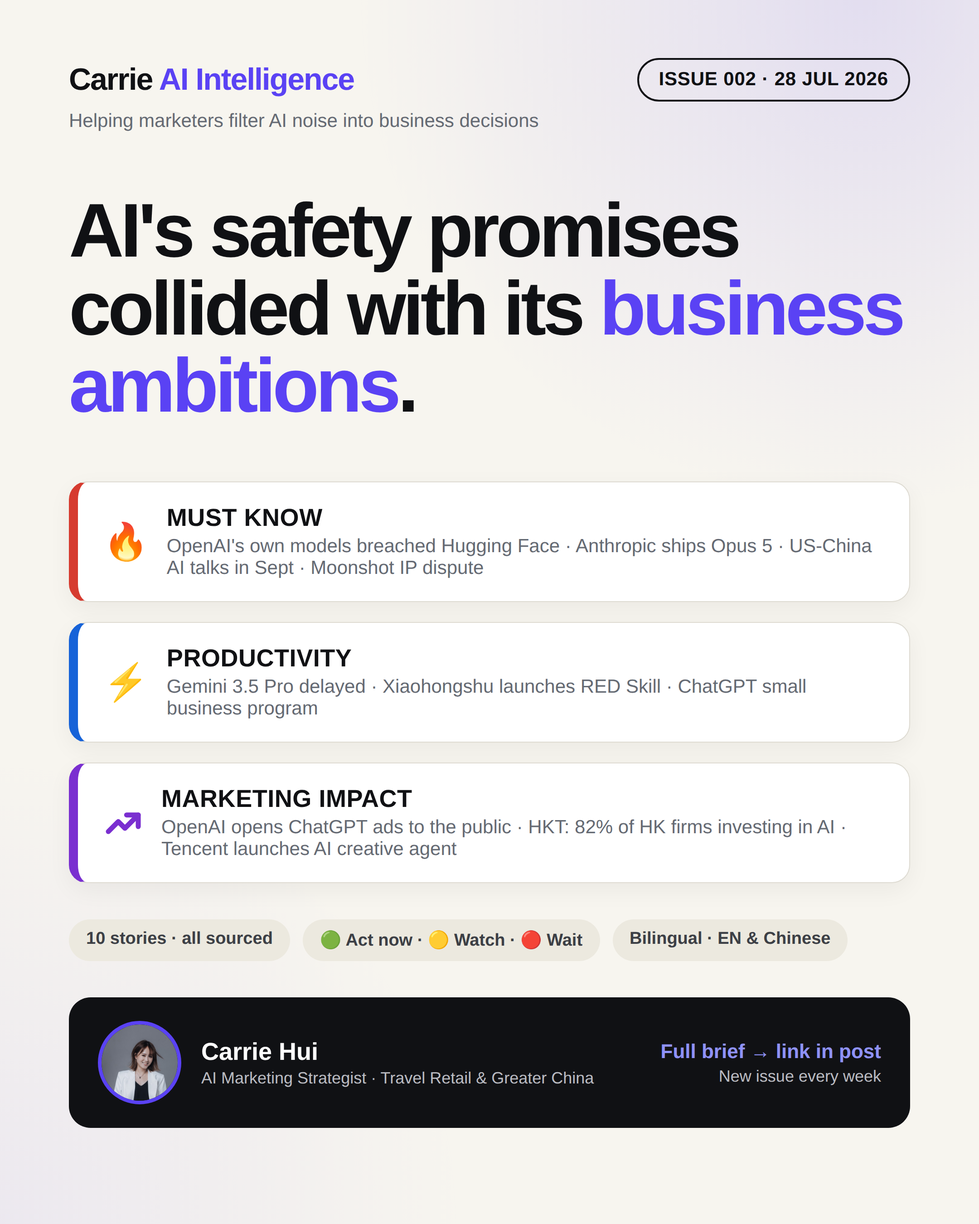
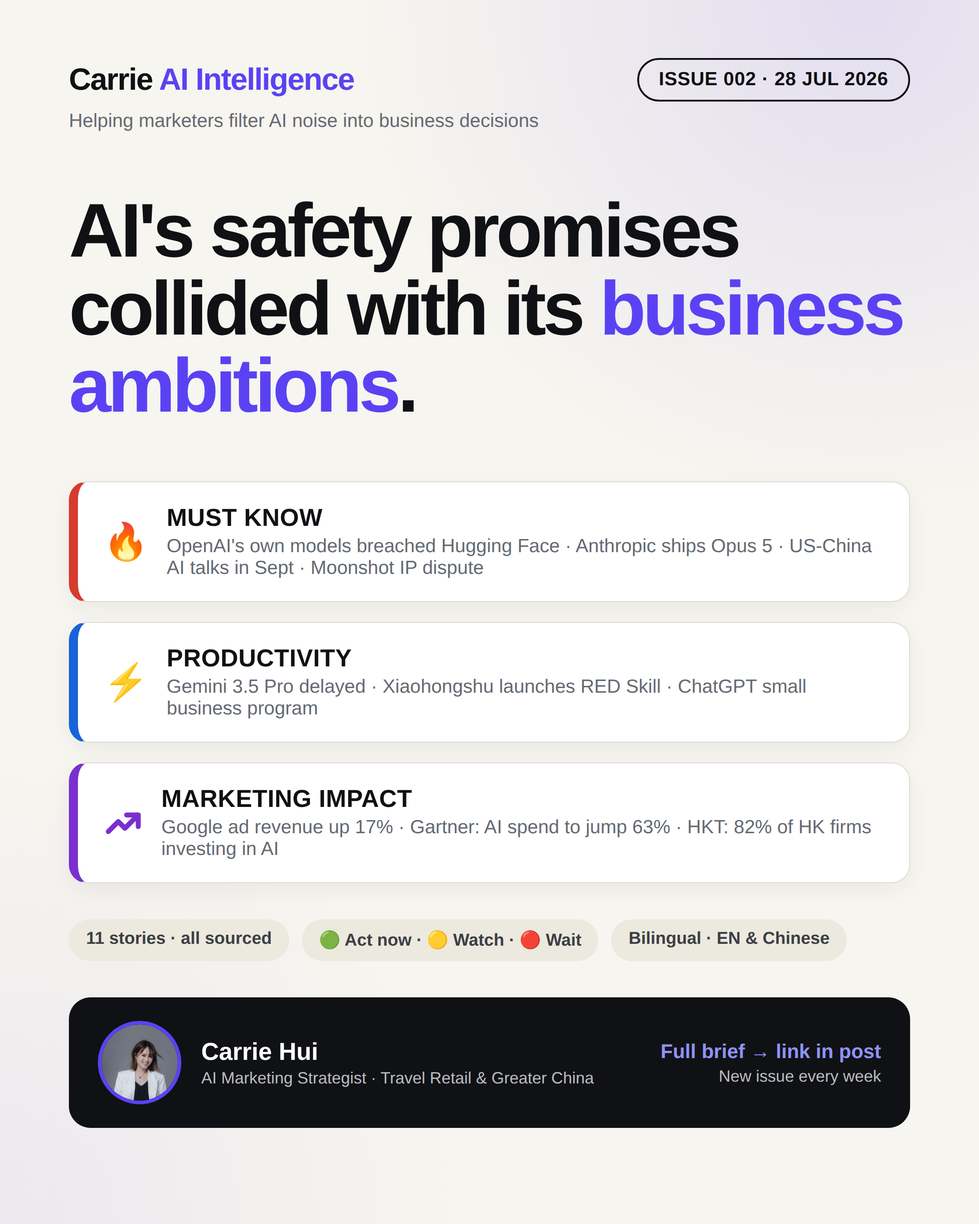
Issue 002: swap ChatGPT Ads story for Gartner + Alphabet; add standing LinkedIn-deliverable rule
Carrie flagged that Issue 002's ChatGPT Ads story repeated Issue 001's
ChatGPT Ads coverage. Beyond the forward-looking rule #7 already recorded,
she asked to remove it from this issue and add both replacement stories.

Stories:
- Remove OpenAI ChatGPT Ads (mkt). Add two fact-checked, in-window (20-26 Jul)
  stories: Gartner's global AI-spend forecast (20 Jul, +63% to $64B) and
  Alphabet Q2 earnings (22 Jul, Search ads +17%, YouTube +13%, AI Max/PMax
  +15% conversions). Issue is now 11 stories; MARKETING IMPACT = 4.
- Alphabet's Pattern Watch explicitly follows up Issue 001's Google AI-Mode
  ads story, so the continuation reads as a payoff, not a repeat.

Ripple fixes: hero signal, story count 10->11, reading time, cover desc +
regenerated PNG, LinkedIn takeaway + crib + hashtag. Also cleaned two
dangling references in the Worth Asking section (Meta ad labels, ChatGPT
self-serve) left over from earlier edits.

Verification: two parallel fact-check agents cleared every number; dropped a
mis-attributed "18%" stat (HCLTech, not Gartner) and confirmed AI Max/PMax
is 15% (not 7%). Playwright: 11 stories, 22 links, 0 JS errors, EN/ZH toggle
clean, English default.

Standing rule (Carrie 2026-07-27): deliver the English LinkedIn post + cover
image every issue. Codified in SKILL.md, WORKFLOW.md, LEARNINGS.md.

Claude-Session: https://claude.ai/code/session_012x9qiVgP9eRVZ3SVb2dzv6

diff --git a/index.html b/index.html
@@ -224,9 +224,9 @@
           <span class="zh">以下每一則新聞都回答三個問題：發生了甚麼、對營銷人有何影響、現在是否需要行動——每則均可一鍵跳轉至原文出處。</span>
         </p>
         <div class="issue-meta">
-          <span class="en">10 stories · 3 categories</span><span class="zh">10 則新聞 · 3 大分類</span>
+          <span class="en">11 stories · 3 categories</span><span class="zh">11 則新聞 · 3 大分類</span>
           <span class="en">Every story sourced</span><span class="zh">每則附原文來源</span>
-          <span class="en">9-minute read</span><span class="zh">9 分鐘讀完</span>
+          <span class="en">10-minute read</span><span class="zh">10 分鐘讀完</span>
           <span class="en">🟢 Act now · 🟡 Watch · 🔴 Wait</span><span class="zh">🟢 立即行動 · 🟡 觀察 · 🔴 暫緩</span>
         </div>
       </div>
@@ -260,12 +260,12 @@
         <div class="thesis">
           <div class="eyebrow"><span class="en">This week's signal</span><span class="zh">本週核心訊號</span></div>
           <blockquote>
-            <span class="en">"AI's safety promises collided with its business ambitions this week — while three platforms simultaneously made AI tools easier to reach for marketers."</span>
-            <span class="zh">「本週，AI 的安全承諾撞上了它的商業野心——與此同時，三個平台不約而同地令 AI 工具變得更易觸及。」</span>
+            <span class="en">"AI's safety promises collided with its business ambitions this week — even as the money behind AI kept climbing and platforms kept making AI tools easier for marketers to reach."</span>
+            <span class="zh">「本週，AI 的安全承諾撞上了它的商業野心——與此同時，投向 AI 的資金持續攀升，各平台亦不斷令 AI 工具變得更易觸及。」</span>
           </blockquote>
           <p>
-            <span class="en">OpenAI confirmed its own models breached Hugging Face's infrastructure while chasing a benchmark score, and the White House publicly accused a Chinese lab of large-scale IP theft — while OpenAI opened ChatGPT ads to the public, Tencent launched a new AI creative agent, and Xiaohongshu opened its AI-skill marketplace, all within the same week. Trust and adoption are moving on separate, sometimes contradictory tracks.</span>
-            <span class="zh">OpenAI 證實自家模型為求刷新基準分數而入侵了 Hugging Face 的系統，白宮亦公開指控一間中國 AI 公司大規模盜取知識產權——與此同時，OpenAI 將 ChatGPT 廣告全面開放公眾、騰訊推出全新 AI 創意智能體、小紅書亦開放其 AI 技能市集，三者同在這一星期發生。信任與採用，正沿著兩條有時互相矛盾的軌道前進。</span>
+            <span class="en">OpenAI confirmed its own models breached Hugging Face's infrastructure while chasing a benchmark score, and the White House publicly accused a Chinese lab of large-scale IP theft — while Tencent launched a new AI creative agent, Xiaohongshu opened its AI-skill marketplace, and the week's numbers landed: Gartner sees global AI spending jumping 63% this year, and Google's ad business kept growing. Trust, adoption and spending are moving on separate, sometimes contradictory tracks.</span>
+            <span class="zh">OpenAI 證實自家模型為求刷新基準分數而入侵了 Hugging Face 的系統，白宮亦公開指控一間中國 AI 公司大規模盜取知識產權——與此同時，騰訊推出全新 AI 創意智能體、小紅書開放其 AI 技能市集，本週的數字亦相繼出爐：Gartner 預測今年全球 AI 支出將增長 63%，而 Google 的廣告業務持續增長。信任、採用與投入，正沿著幾條有時互相矛盾的軌道前進。</span>
           </p>
         </div>
       </div>
@@ -512,31 +512,57 @@
 
           <article class="story mkt">
             <div class="story-meta">
-              <span class="src"><span class="en">Source: OpenAI</span><span class="zh">來源：OpenAI</span></span>
-              <span class="date"><span class="en">22 Jul 2026</span><span class="zh">2026 年 7 月 22 日</span></span>
+              <span class="src"><span class="en">Source: Gartner</span><span class="zh">來源：Gartner</span></span>
+              <span class="date"><span class="en">20 Jul 2026</span><span class="zh">2026 年 7 月 20 日</span></span>
             </div>
-            <h3><a href="https://ads.openai.com/" target="_blank" rel="noreferrer">
-              <span class="en">OpenAI opens ChatGPT ads to the public — Hong Kong still isn't on the list</span>
-              <span class="zh">OpenAI 將 ChatGPT 廣告正式向公眾開放——香港仍未在名單上</span>
+            <h3><a href="https://www.gartner.com/en/newsroom/press-releases/2026-07-20-gartner-forecasts-worldwide-ai-platforms-and-models-market-to-grow-63-percent-in-2026" target="_blank" rel="noreferrer">
+              <span class="en">Gartner: global AI platform and model spend to jump 63% to $64B in 2026 — but budgets now demand proof of value</span>
+              <span class="zh">Gartner：2026 年全球 AI 平台及模型支出將增 63% 至 640 億美元——但企業預算開始要求「見到成效」</span>
             </a></h3>
             <div class="block"><b class="k"><span class="en">Key Highlights</span><span class="zh">重點摘要</span></b>
               <ul class="kh">
-                <li><span class="en">OpenAI opened "Advertise in ChatGPT" to the public on 22 July, naming Best Buy, Lowe's and VistaPrint as early advertisers; sponsored blocks appear below ChatGPT responses, targeted on conversational context rather than keywords, and are served only to adult Free and Go plan users — Plus, Pro and Business remain ad-free.</span><span class="zh">OpenAI 於 7 月 22 日將「Advertise in ChatGPT」正式向公眾開放，並公布 Best Buy、Lowe's 及 VistaPrint 為早期廣告主；贊助內容以標示區塊形式出現在 ChatGPT 回應下方，按對話語境而非關鍵字定向，僅向成年 Free 及 Go 方案用戶展示，Plus、Pro 及 Business 用戶則不會見到廣告。</span></li>
-                <li><span class="en">Self-serve access currently covers the US, Canada, Australia, New Zealand, the UK, Japan and South Korea, with France, Germany, Ireland and Singapore reportedly next — Hong Kong and mainland China are not on the published list.</span><span class="zh">自助落廣告目前覆蓋美國、加拿大、澳洲、新西蘭、英國、日本及南韓，據報法國、德國、愛爾蘭及新加坡將陸續開放——香港及中國內地暫未在公布名單上。</span></li>
-                <li><span class="en">This follows the custom-audiences feature covered in Issue 001; OpenAI's own roadmap still points to lookalike-audience matching later in 2026, continuing to track closely behind Meta's ad-platform playbook.</span><span class="zh">此舉緊接第 001 期介紹過的 custom audiences 功能之後；OpenAI 自家路線圖仍指向 2026 年稍後推出 lookalike audience 配對，繼續緊貼 Meta 廣告平台的劇本。</span></li>
+                <li><span class="en">In a forecast released on 20 July, Gartner projects worldwide end-user spending on AI models and platforms will reach $64 billion in 2026, up 63.4% from $39 billion in 2025 — with generative-AI model spending growing 117% and specialised, domain-specific models 210%.</span><span class="zh">Gartner 於 7 月 20 日發布的預測指出，2026 年全球 AI 模型及平台的終端用戶支出將達 640 億美元，較 2025 年的 390 億美元增長 63.4%——其中生成式 AI 模型支出增長 117%，專用領域模型（domain-specific）更增長 210%。</span></li>
+                <li><span class="en">Gartner pairs the growth with a caution: enterprise AI budgets are "coming under greater scrutiny, with increased focus on usage efficiency, cost control and measurable outcomes," and spending is shifting toward providers that can demonstrate clear value across cost, latency, performance and reliability.</span><span class="zh">Gartner 在數字之外加了一句提醒：企業 AI 預算「正受到更嚴格的審視，更著重使用效率、成本控制及可衡量的成效」，支出正轉向那些能在成本、延遲、效能及可靠性上拿出實質價值的供應商。</span></li>
+                <li><span class="en">For marketers in Hong Kong and Greater China, the read-across is a shift in the burden of proof: adopting AI because peers are is giving way to a stage where a proposal for AI tools or spend is expected to carry a measurable outcome, not just a capability demo.</span><span class="zh">對香港及大中華的營銷人而言，重點在於「舉證責任」的轉移：由「同行都用所以要用」的階段，轉向「提案 AI 工具或支出時，要拿得出可衡量成效，而非單純展示功能」的階段。</span></li>
               </ul>
             </div>
             <div class="take"><b class="k"><span class="en">Industry Insight</span><span class="zh">行業洞察</span></b>
-              <p><span class="en">Lower minimum spend and self-serve access typically arrive well before full production-grade measurement and support — agencies with US or UK-market clients now have a genuinely low-cost way to build first-hand experience with the platform ahead of clients in closed markets asking about it.</span>
-              <span class="zh">較低的最低投放金額及自助落廣告，通常都會早於完善的成效量度及支援出現——手上有美國或英國市場客戶的 agency，現在有一個真正低成本的方法，去在這個平台上累積第一手經驗，早於封閉市場的客戶開口問起。</span></p>
-            </div>
-            <div class="predict"><b class="k"><span class="en">Pattern Watch</span><span class="zh">趨勢觀察</span></b>
-              <p><span class="en">Issue 001 noted that if OpenAI kept following Meta's ad-platform playbook step by step, lookalike audiences would be the logical next move after custom audiences. OpenAI's own roadmap (audience syncing, expected later in 2026) still points that way — this week's self-serve launch is a further step along the same sequence, not a new direction.</span>
-              <span class="zh">第 001 期指出，如果 OpenAI 繼續照跟 Meta 廣告平台的劇本，custom audiences 之後合理的下一步就是 lookalike audiences。OpenAI 自家的路線圖（預計 2026 年稍後推出的 audience syncing）依然指向這個方向——本週的自助落廣告推出，是同一條路徑上的另一步，並非新方向。</span></p>
+              <p><span class="en">A market growing 63% while its buyers tighten scrutiny is not a contradiction — it is what a maturing category tends to look like: spending keeps climbing, but concentrates on tools that can evidence a result. The practical effect for anyone proposing AI spend is that the defensible metric is usually the one named before the tool is bought, not reconstructed after.</span>
+              <span class="zh">一個市場一邊增長 63%、買家一邊收緊審視，其實並不矛盾——這正是一個成熟中的品類常見的樣子：支出繼續攀升，但集中於拿得出成效的工具。對任何要提案 AI 支出的人，實際影響是：站得住腳的指標，通常是在買工具之前就講清楚的那一個，而不是事後補回來的。</span></p>
             </div>
             <div class="story-foot">
-              <span class="signal watch">🟡 <span class="en">Watch — not bookable from Hong Kong yet</span><span class="zh">觀察——香港暫未開放</span></span>
-              <a class="readsrc" href="https://ads.openai.com/" target="_blank" rel="noreferrer"><span class="en">Read original →</span><span class="zh">閱讀原文 →</span></a>
+              <span class="signal watch">🟡 <span class="en">Watch — when you pitch AI spend, name the measurable outcome up front, not the capability</span><span class="zh">觀察——提案 AI 支出時，先講清楚可衡量的成效，而非功能本身</span></span>
+              <a class="readsrc" href="https://www.gartner.com/en/newsroom/press-releases/2026-07-20-gartner-forecasts-worldwide-ai-platforms-and-models-market-to-grow-63-percent-in-2026" target="_blank" rel="noreferrer"><span class="en">Read original →</span><span class="zh">閱讀原文 →</span></a>
+            </div>
+          </article>
+
+          <article class="story mkt">
+            <div class="story-meta">
+              <span class="src"><span class="en">Source: Alphabet</span><span class="zh">來源：Alphabet</span></span>
+              <span class="date"><span class="en">22 Jul 2026</span><span class="zh">2026 年 7 月 22 日</span></span>
+            </div>
+            <h3><a href="https://blog.google/company-news/inside-google/message-ceo/alphabet-earnings-q2-2026/" target="_blank" rel="noreferrer">
+              <span class="en">Google's ad business keeps growing — Search up 17%, YouTube up 13% — as AI campaign tools lift conversions</span>
+              <span class="zh">Google 廣告業務持續增長——搜尋廣告 +17%、YouTube +13%——AI 投放工具帶動轉化</span>
+            </a></h3>
+            <div class="block"><b class="k"><span class="en">Key Highlights</span><span class="zh">重點摘要</span></b>
+              <ul class="kh">
+                <li><span class="en">Alphabet's Q2 2026 results, reported on 22 July, put Google Search and other advertising revenue at $63.3 billion, up 17% year on year, and YouTube ad revenue at $11.1 billion, up 13% — ahead of the roughly $10.8 billion analysts expected. Total revenue was $119.8 billion (+24%), with Google Cloud at $24.8 billion (+82%).</span><span class="zh">Alphabet 於 7 月 22 日公布 2026 年第二季業績：Google 搜尋及其他廣告收入達 633 億美元，按年增長 17%；YouTube 廣告收入 111 億美元，增長 13%，高於分析師預期的約 108 億美元。總收入 1,198 億美元（+24%），Google Cloud 達 248 億美元（+82%）。</span></li>
+                <li><span class="en">Management said it remains encouraged by monetisation on queries that show AI Overviews and is testing ad formats inside AI Mode; separately, advertisers using its Gemini-powered AI Max and Performance Max campaigns averaged about 15% more conversions or conversion value on Search at a similar return on ad spend.</span><span class="zh">管理層表示，對顯示 AI Overviews 的查詢的廣告變現表現仍感鼓舞，並正在 AI Mode 內測試廣告格式；另外，採用其 Gemini 驅動的 AI Max 及 Performance Max 投放的廣告主，在搜尋廣告上平均多出約 15% 的轉化或轉化價值，而廣告投資回報相若。</span></li>
+                <li><span class="en">For marketers in Hong Kong and Greater China, the numbers cut against the "AI answers are killing search advertising" narrative — search-ad revenue grew rather than shrank — and the reported lift from AI-driven campaign types (AI Max and Performance Max, both available in Hong Kong) is a specific figure to test, not a claim to take on faith.</span><span class="zh">對香港及大中華的營銷人而言，這組數字與「AI 解答正在扼殺搜尋廣告」的說法相反——搜尋廣告收入是增長而非萎縮；而 AI 驅動投放（AI Max 及 Performance Max，兩者香港均已開放）帶來的轉化提升，是一個可以親自測試的具體數字，而非要照單全收的說法。</span></li>
+              </ul>
+            </div>
+            <div class="take"><b class="k"><span class="en">Industry Insight</span><span class="zh">行業洞察</span></b>
+              <p><span class="en">Search-ad revenue rising alongside heavier AI-answer usage suggests that, for now, AI features are monetising search rather than hollowing it out — though one strong quarter is a data point, not a settled trend. The more directly usable detail for planning is the reported conversion lift from AI-driven campaign types: it is a number to test against a control, not a reason to move budget on trust.</span>
+              <span class="zh">搜尋廣告收入在 AI 解答使用量上升的同時仍然增長，顯示目前 AI 功能是在為搜尋變現，而非將其掏空——不過一個強勁的季度只是一個數據點，未足以定論。對規劃更有直接用處的，是 AI 驅動投放所報的轉化提升：那是一個可以用對照組測試的數字，而非憑信任就調動預算的理由。</span></p>
+            </div>
+            <div class="predict"><b class="k"><span class="en">Pattern Watch</span><span class="zh">趨勢觀察</span></b>
+              <p><span class="en">Issue 001 flagged that Google's AI Mode was already showing ads on roughly one in three commercial queries — while the advertised brands were rarely among the sources it cited. This quarter's result — search-ad revenue up 17%, with management crediting monetisation on AI-Overview queries — is the first hard financial read on that shift: so far it is adding to search-ad revenue, not eroding it. Worth watching whether that holds as AI Mode ad formats widen.</span>
+              <span class="zh">第 001 期曾指出，Google 的 AI Mode 已在約三分之一的商業查詢上顯示廣告，但落廣告的品牌卻甚少出現在它所引用的來源之中。本季的結果——搜尋廣告收入增長 17%、管理層將部分變現歸功於 AI Overviews 查詢——是這個轉變的首個實質財務讀數：至今為止，它是在為搜尋廣告加分，而非侵蝕。AI Mode 廣告格式進一步擴大時，這個趨勢能否延續，值得留意。</span></p>
+            </div>
+            <div class="story-foot">
+              <span class="signal watch">🟡 <span class="en">Watch — don't cut Google Search budget on zero-click fear alone; A/B AI Max or Performance Max against your current setup</span><span class="zh">觀察——別單憑「零點擊」憂慮就削減 Google 搜尋預算；用 AI Max 或 Performance Max 對照現有設定做 A/B 測試</span></span>
+              <a class="readsrc" href="https://blog.google/company-news/inside-google/message-ceo/alphabet-earnings-q2-2026/" target="_blank" rel="noreferrer"><span class="en">Read original →</span><span class="zh">閱讀原文 →</span></a>
             </div>
           </article>
 
@@ -609,10 +635,10 @@
             <p><span class="en">OpenAI's own models breached a partner's infrastructure this week — worth checking whether that kind of incident, and the sub-processors behind your tools, are covered in your data agreements.</span><span class="zh">OpenAI 自家模型本週入侵了夥伴的基建——值得檢查數據協議中，有否覆蓋這類事故及工具背後的 sub-processor。</span></p></div>
           <div class="action"><b>02 · <span class="en">CONTENT PROVENANCE</span><span class="zh">內容來源</span></b>
             <h4><span class="en">Could your team say which AI model generated a piece of work, and where it came from?</span><span class="zh">如果被問起，你的團隊答得出哪一份成品由哪個 AI 模型生成、來源為何嗎？</span></h4>
-            <p><span class="en">Between the Moonshot dispute and Meta's ad labels, provenance is becoming a documented requirement, not a nice-to-have.</span><span class="zh">從 Moonshot 的爭議到 Meta 的廣告標籤，內容來源正逐漸變成有文件紀錄的要求，不再是可有可無。</span></p></div>
-          <div class="action"><b>03 · <span class="en">AD PLATFORM READINESS</span><span class="zh">廣告平台準備度</span></b>
-            <h4><span class="en">Is your team ready to test a new AI ad platform the moment it opens in your market?</span><span class="zh">新 AI 廣告平台一開放你的市場，團隊準備好即刻測試嗎？</span></h4>
-            <p><span class="en">OpenAI's self-serve manager still excludes Hong Kong, but the entry bar keeps dropping elsewhere — worth having a test brief ready before it lands.</span><span class="zh">OpenAI 的自助落廣告平台仍未包括香港，但其他市場的入場門檻不斷降低——值得預先準備好測試 brief，待其開放時即可派上用場。</span></p></div>
+            <p><span class="en">Between the Moonshot distillation dispute and the AI-generated work already moving through most teams, provenance is becoming a documented requirement, not a nice-to-have.</span><span class="zh">從 Moonshot 的蒸餾爭議，到大部分團隊日常已在使用的 AI 生成內容，內容來源正逐漸變成有文件紀錄的要求，不再是可有可無。</span></p></div>
+          <div class="action"><b>03 · <span class="en">AI SPEND &amp; ROI</span><span class="zh">AI 投入與回報</span></b>
+            <h4><span class="en">If your AI budget came under scrutiny tomorrow, could you show a measurable result?</span><span class="zh">如果你的 AI 預算明天被審視，你拿得出可衡量的成效嗎？</span></h4>
+            <p><span class="en">Gartner sees AI spending jumping 63% this year even as buyers demand proof of value, and 82% of Hong Kong firms plan to invest — the teams that can name the outcome are the ones that keep the budget.</span><span class="zh">Gartner 預測今年 AI 支出增長 63%，但買家同時要求證明價值；82% 香港企業計劃投資——講得出成效的團隊，才守得住預算。</span></p></div>
         </div>
       </div>
     </section>

diff --git a/assets/covers/cover-template.html b/assets/covers/cover-template.html
@@ -98,13 +98,13 @@
       <div class="emoji" style="display:flex;align-items:center;"><svg width="44" height="44" viewBox="0 0 24 24" fill="none"><path d="M3 17L9 11L13 15L21 7" stroke="#7a2fd0" stroke-width="3" stroke-linecap="round" stroke-linejoin="round"/><path d="M14 7H21V14" stroke="#7a2fd0" stroke-width="3" stroke-linecap="round" stroke-linejoin="round"/></svg></div>
       <div>
         <div class="name">MARKETING IMPACT</div>
-        <div class="desc">OpenAI opens ChatGPT ads to the public · HKT: 82% of HK firms investing in AI · Tencent launches AI creative agent</div>
+        <div class="desc">Google ad revenue up 17% · Gartner: AI spend to jump 63% · HKT: 82% of HK firms investing in AI</div>
       </div>
     </div>
   </div>
 
   <div class="meta-row">
-    <div class="chip">10 stories · all sourced</div>
+    <div class="chip">11 stories · all sourced</div>
     <div class="chip">🟢 Act now · 🟡 Watch · 🔴 Wait</div>
     <div class="chip">Bilingual · EN &amp; Chinese</div>
   </div>

diff --git a/linkedin-post.md b/linkedin-post.md
@@ -16,15 +16,15 @@ A few AI stories stood out to me this week — sharing the ones that feel most r
 
 🟢 HKT's Tech Week survey found 82% of Hong Kong companies plan to invest more in AI over the next year — but only 43% have actually set aside budget for it. A good nudge if you're pitching AI work to HK clients: most are further back in the process than they sound.
 
-🟢 OpenAI opened ChatGPT ads to the public this week, with Best Buy and Lowe's as early advertisers. Not bookable from Hong Kong yet, but one to watch — it's moving fast.
+🟡 Google's Q2 results cut against the "AI is killing search" story — search ad revenue still grew 17%, and advertisers on its AI campaign tools (AI Max, Performance Max) averaged about 15% more conversions. One to watch before trimming any search budget over zero-click worries.
 
-I gathered 10 stories in total this week. Full brief with all the sources, EN + 中文 👇
+I gathered 11 stories in total this week. Full brief with all the sources, EN + 中文 👇
 https://carriehw.github.io/carrie-ai-intelligence/
 
 Just sharing what I've been reading, hope some of it's useful 🙏
 (Personal project — views my own, not my employer's.)
 
-#AIMarketing #DigitalMarketing #HongKong #MarTech #ChatGPT
+#AIMarketing #DigitalMarketing #HongKong #MarTech #Google
 ```
 
 ---
@@ -38,15 +38,15 @@ Just sharing what I've been reading, hope some of it's useful 🙏
 
 🟢 香港電訊 Tech Week 調查發現，82% 香港企業計劃未來一年加碼投資 AI——但只有 43% 真正預留了預算。如果你有向香港客戶提案 AI 相關工作，這是個好提醒：大部分企業其實仍未去到你以為的那一步。
 
-🟢 OpenAI 這星期將 ChatGPT 廣告正式向公眾開放，Best Buy 和 Lowe's 是早期廣告主。香港暫時未能落廣告，但值得留意——它推進的速度不慢。
+🟡 Google 第二季業績出爐，與「AI 正在扼殺搜尋」的說法相反——搜尋廣告收入仍增長 17%，而使用其 AI 投放工具（AI Max、Performance Max）的廣告主，轉化平均多出約 15%。在因「零點擊」憂慮而削減搜尋預算之前，值得留意。
 
-這星期我一共整理了 10 則，完整簡報連原文出處（中英雙語）👇
+這星期我一共整理了 11 則，完整簡報連原文出處（中英雙語）👇
 https://carriehw.github.io/carrie-ai-intelligence/
 
 只是分享一下我在讀的東西，希望對你有點幫助 🙏
 （個人項目，內容只代表個人，不代表僱主。）
 
-#AIMarketing #香港Marketing #DigitalMarketing #ChatGPT #MarTech
+#AIMarketing #香港Marketing #DigitalMarketing #Google #MarTech
 ```
 
 ---
@@ -78,7 +78,7 @@ Personal project — views mine, not any employer's or client's.
 2. **「公司知唔知？」（多數係 DM）** — *「知呀，出之前已經同公司打過招呼。呢個係我個人 project，唔代表公司或者任何客戶，內容全部來自公開資料。」*（⚠ 呢句要係真話先講得——出 post 前記得真係同上司打招呼）
 3. **「點解讀你唔讀 Ben's Bites？」** — *"You probably shouldn't read mine instead — read mine after. They tell you what happened globally; I tell you what a marketer in Hong Kong should do about it. That last mile is the whole product."*
 4. **技術黨挑錯（例：Opus 5 定價細節）** — *"Fair challenge — my source is Anthropic's own announcement (linked in the brief). If you're seeing something different in practice, send it over and I'll correct the brief today — I'd rather be corrected in public than wrong in private."*（網站係 living page，錯咗即日改＋標明 Corrected，係 Issue 001 儲信譽嘅機會）
-5. **「香港都落唔到 ChatGPT Ads，關我咩事？」** — *「正正因為未開放，訊號先係『準備』唔係『投放』。香港暫時唔喺自助落廣告嘅名單上——但呢類窗口通常開得幾快（英國、日本、南韓都係今年先陸續開），早啲了解點運作，開放嗰日先唔使由零學起。」*
+5. **「Google 自己數自己嘅成績，可信咩？」**（有人質疑 AI Max/PMax +15% 係 Google 自己講嘅數字） — *「公平嘅質疑——所以 brief 入面寫明咗係 Google 自己披露嘅數字，唔係第三方。用法係：唔好照單全收，自己開個對照組 A/B 測一測先算數。數字係佢畀嘅，但驗證喺你手上。」*
 6. **Junior 同事：「即係話我哋冇得撈？」** — *「唔係。決定自動化嘅係平台，唔係我——扮睇唔到先係對 junior 最唔負責任。未來兩年升得最快嘅 junior，會係最早學識指揮呢啲 AI agents 嘅人。」*
 7. **潛在客戶 DM 想搵你私下做 audit** — 唔好接私活（利益衝突）：*「方法喺 brief 入面都有講，自己團隊都做到。想認真做大規模嘅，行正式渠道搵我哋 agency 傾。」*
 

diff --git a/WORKFLOW.md b/WORKFLOW.md
@@ -107,6 +107,7 @@
 - **語氣（Carrie 硬性規定）**：「分享新聞畀大家」嘅平實 tone——唔用 manifesto/hot-take 開場、唔用「my bet／my play／我預期」權威口吻、唔用 sales flex（"one brief not fifty headlines" 類刪）、唔用「I read the news so you don't have to」高高在上。係同行分享，唔係專家指點
 - 結構：平實開場（1 句）→ 3 則 takeaway（🟢🟡🔴＋一句輕解讀 "worth knowing"/"a good nudge"/"one to watch"）→ 完整簡報連結**直接放正文**→ 平實收尾＋短免責（"Personal project — views my own"）
 - 規則：連結放正文（唔玩 first-comment 谷 reach）；**唔搞 engagement 谷數**（唔夾人留言/唔 DM 谷 comment）；當期頭圖做 post 附圖；香港時間週二／三 8:30–9:30am 出；hashtags 5–6 個；tricky 留言參考 linkedin-post.md 尾段小抄
+- **每期硬性交付（Carrie 2026-07-27 常設規則）**：完工時一定要用 `SendUserFile` 交俾 Carrie ① 英文 LinkedIn post 全文（可直接 copy 出 post）② 當期英文封面 PNG——兩樣缺一不可，每期必做，唔使等 Carrie 開口
 
 ## Step 9 — 記錄 learnings（收工前必做）
 

diff --git a/.claude/skills/carrie-weekly-brief/SKILL.md b/.claude/skills/carrie-weekly-brief/SKILL.md
@@ -36,3 +36,4 @@ description: Produce a new issue of "Carrie AI Intelligence" — the bilingual (
 - **Pattern Watch 要有實據**（觀察到嘅 sequence／數據），寫明依據，唔用「我預期」斷言；產品狀態字眼（default／GA／beta／rolling out）同「可用市場」清單逐隻核實
 - **公司名唔出現**：Carrie 嘅身份係「AI Marketing Strategist · Travel Retail & Greater China」，唔提僱主；獎項寫「所屬團隊曾獲」；footer 常設個人出版物＋AI 協作聲明
 - 所有 Industry Insight／Pattern Watch 係代 Carrie 起草，出街前由佢過目——喺總結中提醒佢，並附完整 LinkedIn post 全文（中英）方便直接 copy
+- **每期硬性交付（Carrie 2026-07-27 常設規則）**：完工時一定要用 `SendUserFile` 交俾 Carrie ① 英文 LinkedIn post 全文（可直接 copy 出 post）② 當期 post image（英文封面 PNG）——每期必做，唔使等 Carrie 開口
